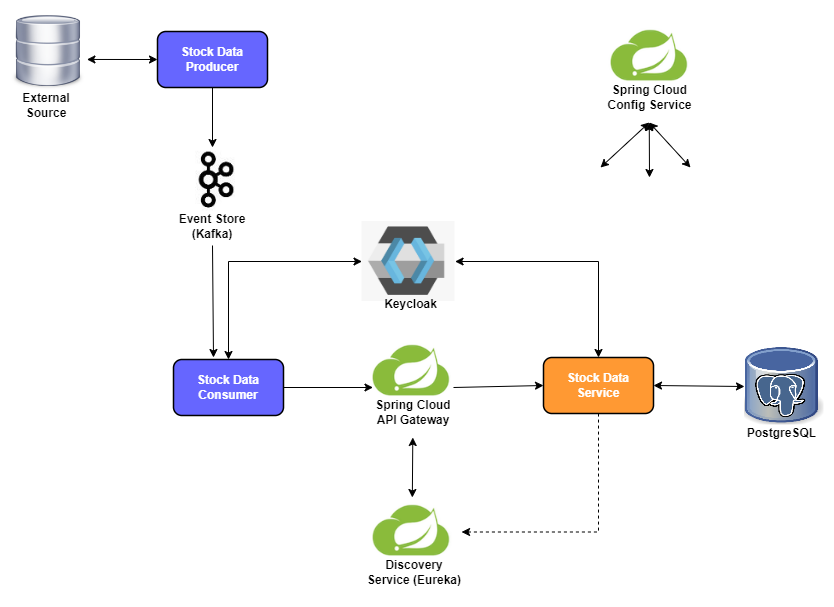
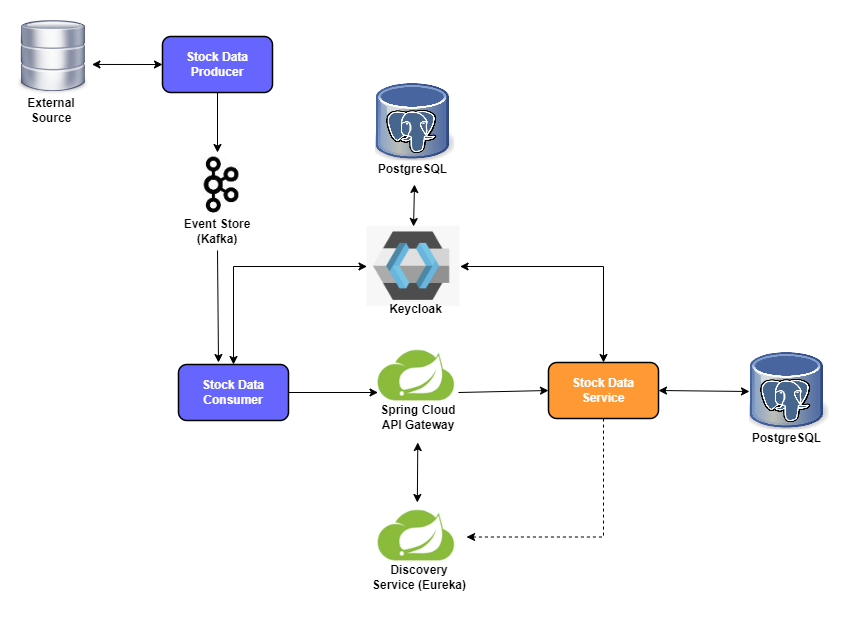
Revise the application diagram and add the config service diagram

diff --git a/README.md b/README.md
@@ -11,7 +11,11 @@ with Spring Cloud. It continuously retrieves market data from an external source
 the system through a microservices architecture. This architecture includes several key components
 designed to handle and secure the data effectively.
 
-![Architecture Overview Diagram](documentation/images/stock-app-overview.png "Architecture Overview Diagram")
+**Application Architecture Overview**
+![Application Architecture Overview](documentation/images/stock-app-overview.png "Application Architecture Overview")
+
+**Centralized Configuration Management Overview**
+![Centralized Configuration Management Overview](documentation/images/config-service-overview.png "Centralized Configuration Management Overview")
 
 - **Stock Quote Producer:** This service retrieves market data via an external API and publishes it
   to a Kafka message queue.
